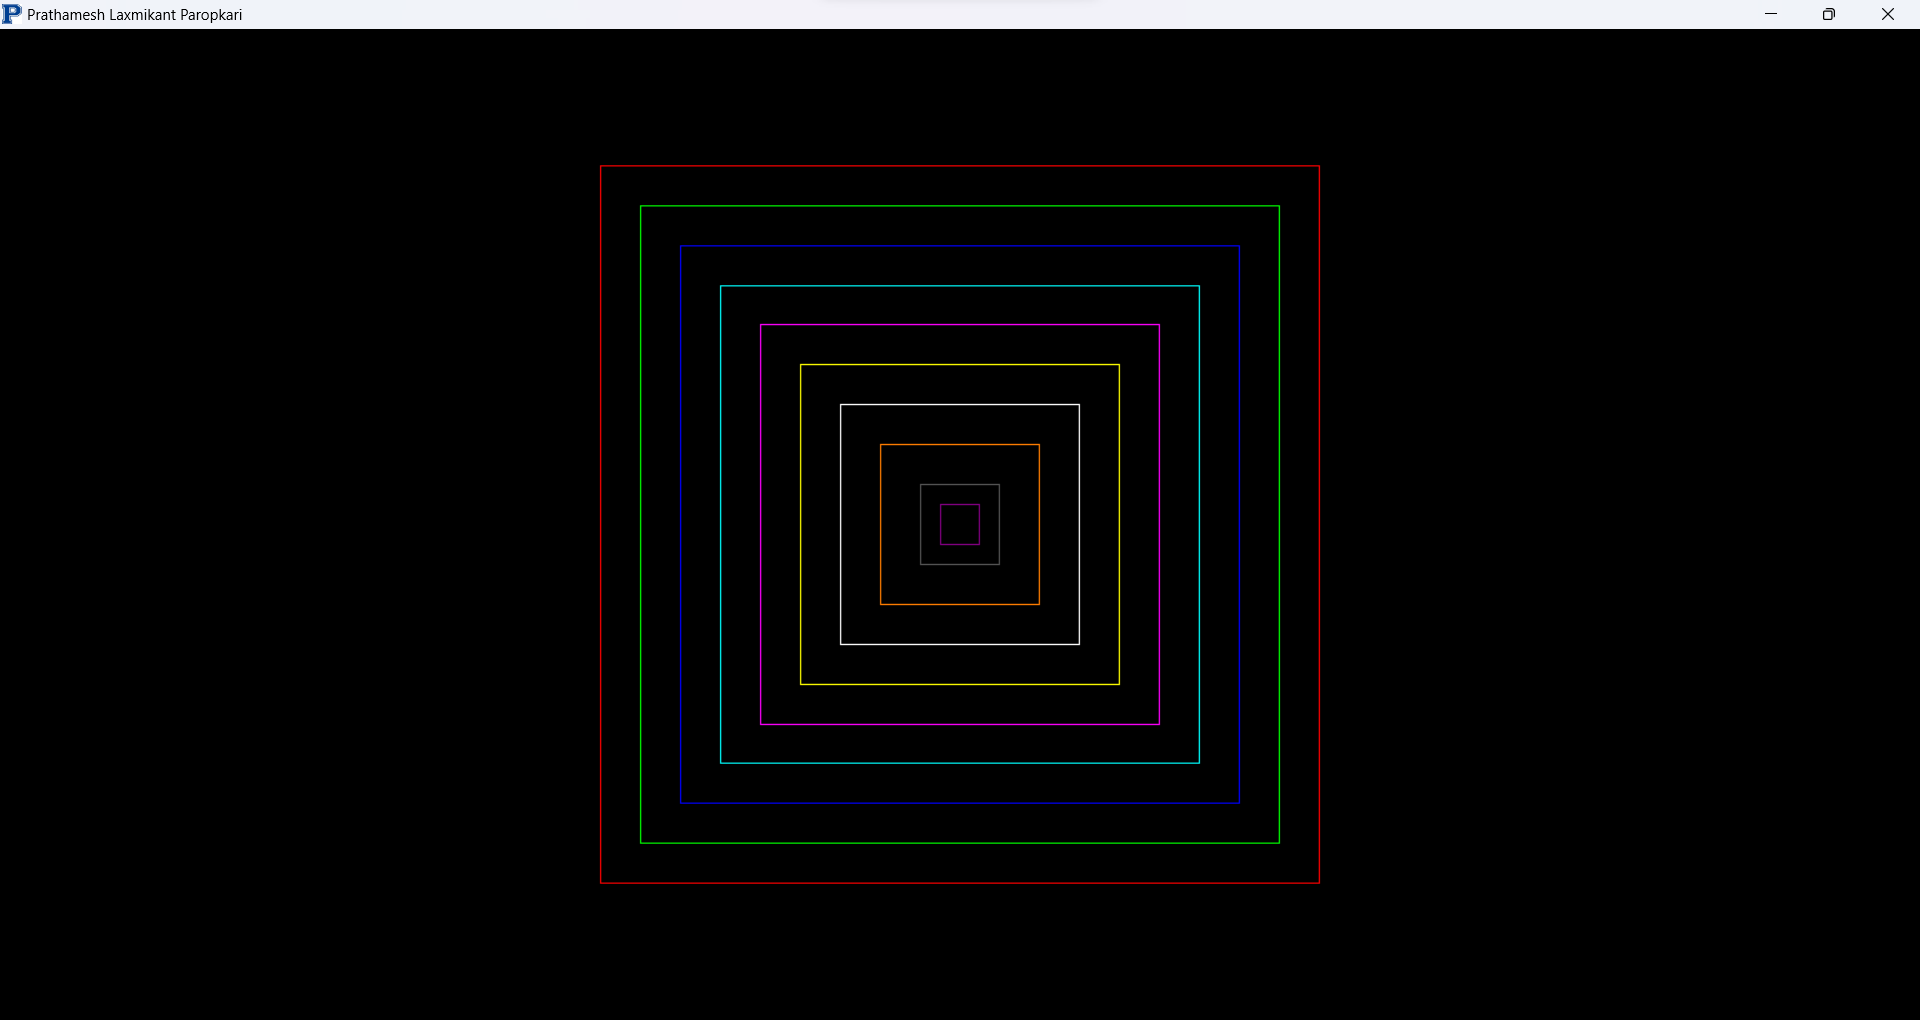
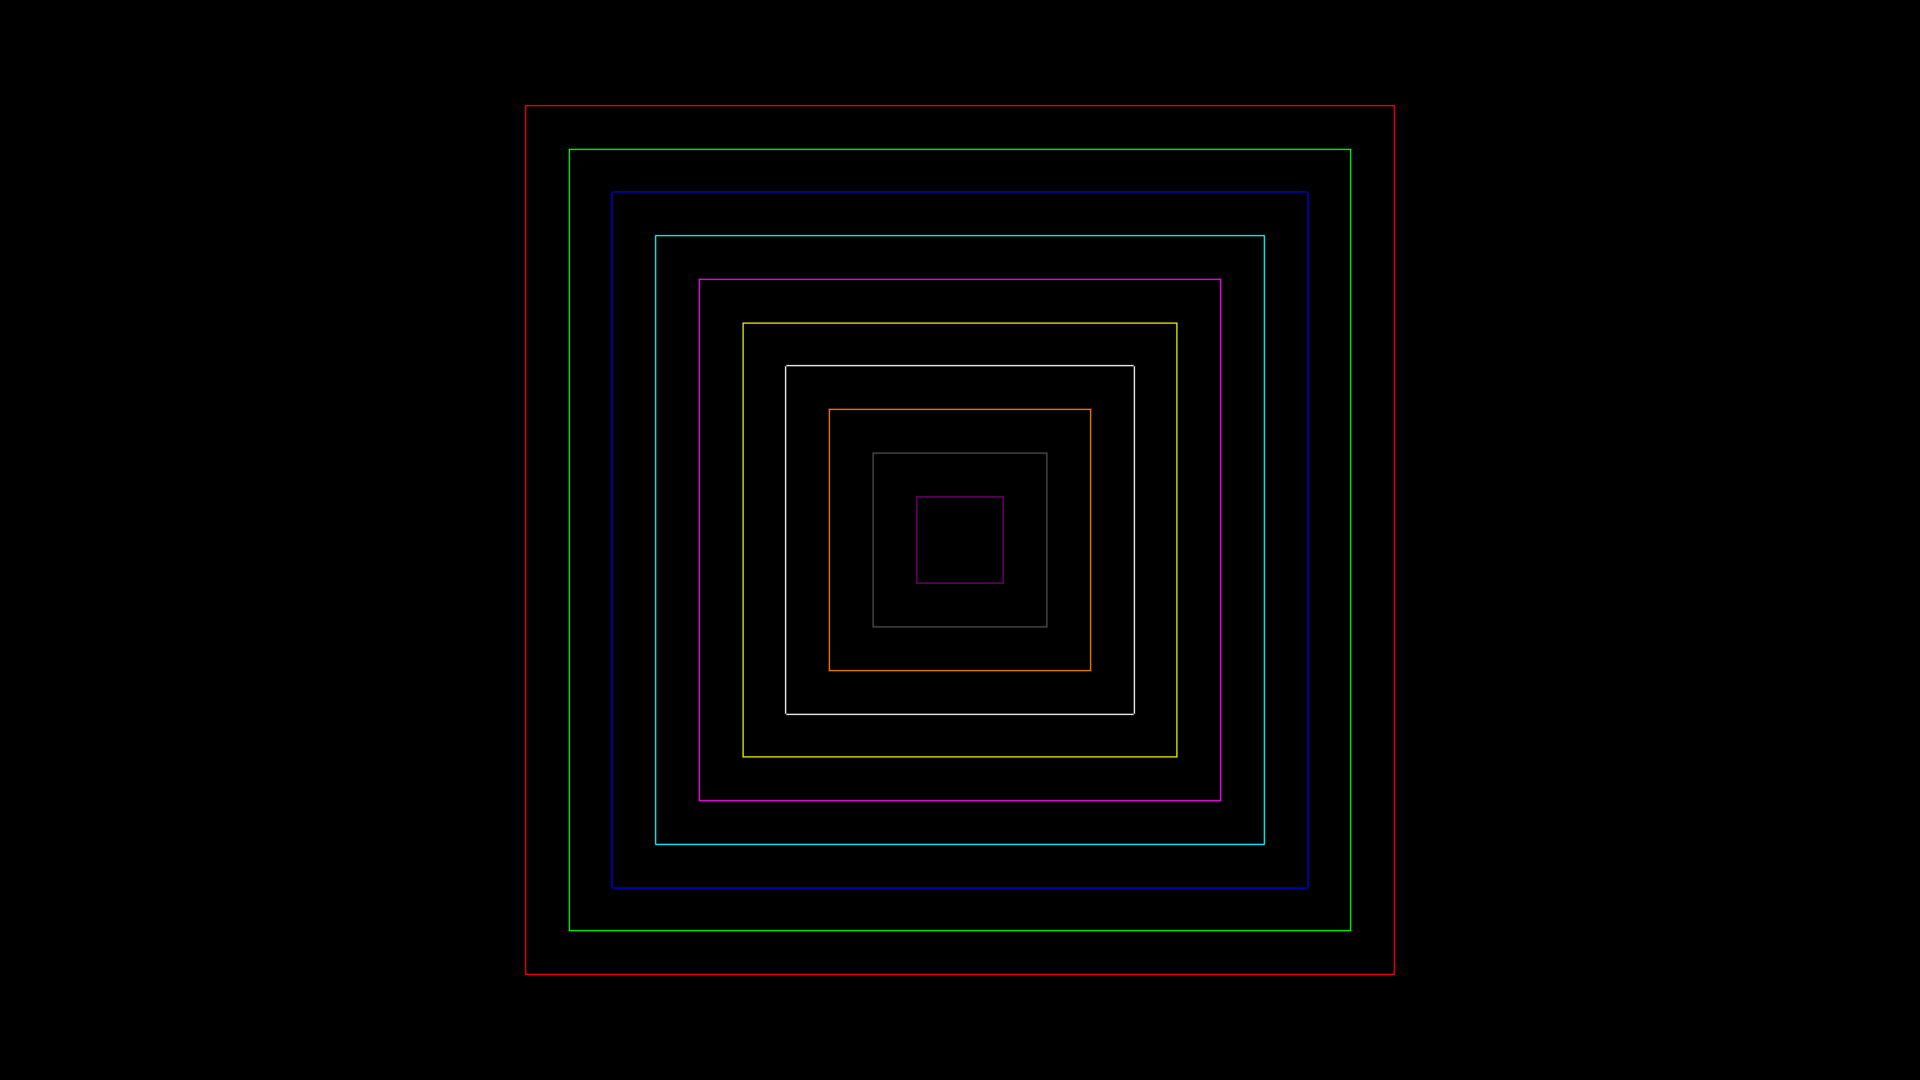
Corrected Concentric Squares Assignment

Changed region(s): [[0.3125, 0.152, 0.6875, 0.8814], [0.0, 0.0, 1.0, 0.0304]]

diff --git a/01_OpenGL/01_FFP/01_Windows/23_Basic_Assignments/13_Concentric_Squares/OGL.c b/01_OpenGL/01_FFP/01_Windows/23_Basic_Assignments/13_Concentric_Squares/OGL.c
@@ -437,6 +437,27 @@ void resize(int width, int height)
 
 void display(void)
 {
+
+	struct colour
+	{
+		GLfloat Red;
+		GLfloat Green;
+		GLfloat Blue;
+	};
+	struct colour c[10] = {
+						  {1.0f,0.0f,0.0f},
+						  {0.0f,1.0f,0.0f},
+						  {0.0f,0.0f,1.0f},
+						  {0.0f, 1.0f, 1.0f},
+						  {1.0f, 0.0f, 1.0f},
+						  {1.0f, 1.0f, 0.0f},
+						  {1.0f, 1.0f, 1.0f},
+						  {1.0f, 0.49f, 0.0f},
+						  {(83.0f / 255.0f), (83.0f / 255.0f), (83.0f / 255.0f)},
+						  {(128.0f / 255.0f), (0.0f / 255.0f), (128.0f / 255.0f)}
+	};
+
+
 	//code
 	glClear(GL_COLOR_BUFFER_BIT);
 	glMatrixMode(GL_MODELVIEW);
@@ -444,184 +465,270 @@ void display(void)
 	
 	glTranslatef(0.0f, 0.0f, -3.0f);
 
-	glBegin(GL_LINE_STRIP);               //first quad (Outermost)
+	GLfloat TC = 1.0f;
+	for (int i = 1; i <= 10; i++)
+	{
+		if (i == 1)
+		{
+			glColor3f(c[0].Red, c[0].Green, c[0].Blue);
+		}
 
-	glColor3f(1.0f, 0.0f, 0.0f);
-	glVertex3f(0.9f, 0.9f, 0.0f);
+		else if (i == 2)
+		{
+			glColor3f(c[1].Red, c[1].Green, c[1].Blue);
+		}
 
-	
-	glVertex3f(-0.9f, 0.9f, 0.0f);
+		else if (i == 3)
+		{
+			glColor3f(c[2].Red, c[2].Green, c[2].Blue);
+		}
 
-	
-	glVertex3f(-0.9f, -0.9f, 0.0f);
+		else if (i == 4)
+		{
+			glColor3f(c[3].Red, c[3].Green, c[3].Blue);
+		}
 
-	glVertex3f(0.9f, -0.9f, 0.0f);
+		else if (i == 5)
+		{
+			glColor3f(c[4].Red, c[4].Green, c[4].Blue);
+		}
 
-	glVertex3f(0.9f, 0.9f, 0.0f);
+		else if (i == 6)
+		{
+			glColor3f(c[5].Red, c[5].Green, c[5].Blue);
+		}
 
-	glEnd();
+		else if (i == 7)
+		{
+			glColor3f(c[6].Red, c[6].Green, c[6].Blue);
+		}
 
-	glBegin(GL_LINE_STRIP);                  //Second quad(Second largest)
+		else if (i == 8)
+		{
+			glColor3f(c[7].Red, c[7].Green, c[7].Blue);
+		}
 
-	glColor3f(0.0f, 1.0f, 0.0f);
-	glVertex3f(0.8f, 0.8f, 0.0f);
+		else if (i == 9)
+		{
+			glColor3f(c[8].Red, c[8].Green, c[8].Blue);
+		}
 
+		else if (i == 10)
+		{
+			glColor3f(c[9].Red, c[9].Green, c[9].Blue);
+		}
 
-	glVertex3f(-0.8f, 0.8f, 0.0f);
+		else
+		{
+			glColor3f(c[4].Red, c[4].Green, c[4].Blue);
+		}
 
 
-	glVertex3f(-0.8f, -0.8f, 0.0f);
+		glBegin(GL_LINE_STRIP);
+		glVertex3f(TC, TC, 0.0f);
+		glVertex3f(-TC, TC, 0.0f);
+		glVertex3f(-TC, -TC, 0.0f);
+		glVertex3f(TC, -TC, 0.0f);
+		glVertex3f(TC, TC, 0.0f);
+		glEnd();
+		TC -= 0.1;
+	}
 
-	glVertex3f(0.8f, -0.8f, 0.0f);
+	//glBegin(GL_LINE_STRIP);               //first quad (Outermost)
 
-	glVertex3f(0.8f, 0.8f, 0.0f);
+	//glColor3f(1.0f, 0.0f, 0.0f);
+	//glVertex3f(1.0f, 1.0f, 0.0f);
 
-	glEnd();
 
-	glBegin(GL_LINE_STRIP);                  //Third quad(Third largest)
+	//glVertex3f(-1.0f, 1.0f, 0.0f);
 
-	glColor3f(0.0f, 0.0f, 1.0f);
-	glVertex3f(0.7f, 0.7f, 0.0f);
 
+	//glVertex3f(-1.0f, -1.0f, 0.0f);
 
-	glVertex3f(-0.7f, 0.7f, 0.0f);
+	//glVertex3f(1.0f, -1.0f, 0.0f);
 
+	//glVertex3f(1.0f, 1.0f, 0.0f);
 
-	glVertex3f(-0.7f, -0.7f, 0.0f);
+	//glEnd();
 
-	glVertex3f(0.7f, -0.7f, 0.0f);
+	//glBegin(GL_LINE_STRIP);               //second quad (Outermost)
 
-	glVertex3f(0.7f, 0.7f, 0.0f);
+	//glColor3f(0.0f, 1.0f, 0.0f);
+	//glVertex3f(0.9f, 0.9f, 0.0f);
 
-	glEnd();
+	//
+	//glVertex3f(-0.9f, 0.9f, 0.0f);
 
-	glBegin(GL_LINE_STRIP);                  //fourth quad
+	//
+	//glVertex3f(-0.9f, -0.9f, 0.0f);
 
-	glColor3f(0.0f, 1.0f, 1.0f);
-	glVertex3f(0.6f, 0.6f, 0.0f);
+	//glVertex3f(0.9f, -0.9f, 0.0f);
 
+	//glVertex3f(0.9f, 0.9f, 0.0f);
 
-	glVertex3f(-0.6f, 0.6f, 0.0f);
+	//glEnd();
 
+	//glBegin(GL_LINE_STRIP);                  //third quad(Second largest)
 
-	glVertex3f(-0.6f, -0.6f, 0.0f);
+	//glColor3f(0.0f, 0.0f, 1.0f);
+	//glVertex3f(0.8f, 0.8f, 0.0f);
 
-	glVertex3f(0.6f, -0.6f, 0.0f);
 
-	glVertex3f(0.6f, 0.6f, 0.0f);
+	//glVertex3f(-0.8f, 0.8f, 0.0f);
 
-	glEnd();
 
-	glBegin(GL_LINE_STRIP);                  //fifth quad
+	//glVertex3f(-0.8f, -0.8f, 0.0f);
 
-	glColor3f(1.0f, 0.0f, 1.0f);
+	//glVertex3f(0.8f, -0.8f, 0.0f);
 
-	glVertex3f(0.5f, 0.5f, 0.0f);
+	//glVertex3f(0.8f, 0.8f, 0.0f);
 
+	//glEnd();
 
-	glVertex3f(-0.5f, 0.5f, 0.0f);
+	//glBegin(GL_LINE_STRIP);                  //fourth quad(Third largest)
 
+	//glColor3f(0.0f, 1.0f, 1.0f);
+	//glVertex3f(0.7f, 0.7f, 0.0f);
 
-	glVertex3f(-0.5f, -0.5f, 0.0f);
 
-	glVertex3f(0.5f, -0.5f, 0.0f);
+	//glVertex3f(-0.7f, 0.7f, 0.0f);
 
-	glVertex3f(0.5f, 0.5f, 0.0f);
 
-	glEnd();
+	//glVertex3f(-0.7f, -0.7f, 0.0f);
 
-	glBegin(GL_LINE_STRIP);                  //sixth quad
+	//glVertex3f(0.7f, -0.7f, 0.0f);
 
-	glColor3f(1.0f, 1.0f, 0.0f);
+	//glVertex3f(0.7f, 0.7f, 0.0f);
 
-	glVertex3f(0.4f, 0.4f, 0.0f);
+	//glEnd();
 
+	//glBegin(GL_LINE_STRIP);                  //fifth quad
 
-	glVertex3f(-0.4f, 0.4f, 0.0f);
+	//glColor3f(1.0f, 0.0f, 1.0f);
+	//glVertex3f(0.6f, 0.6f, 0.0f);
 
 
-	glVertex3f(-0.4f, -0.4f, 0.0f);
+	//glVertex3f(-0.6f, 0.6f, 0.0f);
 
-	glVertex3f(0.4f, -0.4f, 0.0f);
 
-	glVertex3f(0.4f, 0.4f, 0.0f);
+	//glVertex3f(-0.6f, -0.6f, 0.0f);
 
-	glEnd();
+	//glVertex3f(0.6f, -0.6f, 0.0f);
 
-	glBegin(GL_LINE_STRIP);                  //seventh quad
+	//glVertex3f(0.6f, 0.6f, 0.0f);
 
-	glColor3f(1.0f, 1.0f, 1.0f);
+	//glEnd();
 
-	glVertex3f(0.3f, 0.3f, 0.0f);
+	//glBegin(GL_LINE_STRIP);                  //sixth quad
 
+	//glColor3f(1.0f, 1.0f, 0.0f);
 
-	glVertex3f(-0.3f, 0.3f, 0.0f);
+	//glVertex3f(0.5f, 0.5f, 0.0f);
 
 
-	glVertex3f(-0.3f, -0.3f, 0.0f);
+	//glVertex3f(-0.5f, 0.5f, 0.0f);
 
-	glVertex3f(0.3f, -0.3f, 0.0f);
 
-	glVertex3f(0.3f, 0.3f, 0.0f);
+	//glVertex3f(-0.5f, -0.5f, 0.0f);
 
-	glEnd();
+	//glVertex3f(0.5f, -0.5f, 0.0f);
 
-	glBegin(GL_LINE_STRIP);                  //eighth quad
+	//glVertex3f(0.5f, 0.5f, 0.0f);
 
-	glColor3f(1.0f, 0.49f, 0.0f);
+	//glEnd();
 
+	//glBegin(GL_LINE_STRIP);                  //seventh quad
 
-	glVertex3f(0.2f, 0.2f, 0.0f);
+	//glColor3f(1.0f, 1.0f, 1.0f);
 
+	//glVertex3f(0.4f, 0.4f, 0.0f);
 
-	glVertex3f(-0.2f, 0.2f, 0.0f);
 
+	//glVertex3f(-0.4f, 0.4f, 0.0f);
 
-	glVertex3f(-0.2f, -0.2f, 0.0f);
 
-	glVertex3f(0.2f, -0.2f, 0.0f);
+	//glVertex3f(-0.4f, -0.4f, 0.0f);
 
-	glVertex3f(0.2f, 0.2f, 0.0f);
+	//glVertex3f(0.4f, -0.4f, 0.0f);
 
-	glEnd();
+	//glVertex3f(0.4f, 0.4f, 0.0f);
 
-	glBegin(GL_LINE_STRIP);                  //ninth quad
+	//glEnd();
 
-	glColor3f((83.0f / 255.0f), (83.0f / 255.0f), (83.0f / 255.0f));
+	//glBegin(GL_LINE_STRIP);                  //eighth quad
 
+	//glColor3f(1.0f, 0.49f, 0.0f);
 
-	glVertex3f(0.1f, 0.1f, 0.0f);
+	//glVertex3f(0.3f, 0.3f, 0.0f);
 
 
-	glVertex3f(-0.1f, 0.1f, 0.0f);
+	//glVertex3f(-0.3f, 0.3f, 0.0f);
 
 
-	glVertex3f(-0.1f, -0.1f, 0.0f);
+	//glVertex3f(-0.3f, -0.3f, 0.0f);
 
-	glVertex3f(0.1f, -0.1f, 0.0f);
+	//glVertex3f(0.3f, -0.3f, 0.0f);
 
-	glVertex3f(0.1f, 0.1f, 0.0f);
+	//glVertex3f(0.3f, 0.3f, 0.0f);
 
-	glEnd();
+	//glEnd();
 
-	glBegin(GL_LINE_STRIP);                  //Tenth quad
+	//glBegin(GL_LINE_STRIP);                  //ninth quad
 
-	glColor3f((128.0f / 255.0f), (0.0f / 255.0f), (128.0f / 255.0f));
+	//glColor3f((83.0f / 255.0f), (83.0f / 255.0f), (83.0f / 255.0f));
 
 
-	glVertex3f(0.05f, 0.05f, 0.0f);
+	//glVertex3f(0.2f, 0.2f, 0.0f);
 
 
-	glVertex3f(-0.05f, 0.05f, 0.0f);
+	//glVertex3f(-0.2f, 0.2f, 0.0f);
 
 
-	glVertex3f(-0.05f, -0.05f, 0.0f);
+	//glVertex3f(-0.2f, -0.2f, 0.0f);
 
-	glVertex3f(0.05f, -0.05f, 0.0f);
+	//glVertex3f(0.2f, -0.2f, 0.0f);
 
-	glVertex3f(0.05f, 0.05f, 0.0f);
+	//glVertex3f(0.2f, 0.2f, 0.0f);
 
-	glEnd();
+	//glEnd();
+
+	//glBegin(GL_LINE_STRIP);                  //tenth quad
+
+	//glColor3f((128.0f / 255.0f), (0.0f / 255.0f), (128.0f / 255.0f));
+
+
+	//glVertex3f(0.1f, 0.1f, 0.0f);
+
+
+	//glVertex3f(-0.1f, 0.1f, 0.0f);
+
+
+	//glVertex3f(-0.1f, -0.1f, 0.0f);
+
+	//glVertex3f(0.1f, -0.1f, 0.0f);
+
+	//glVertex3f(0.1f, 0.1f, 0.0f);
+
+	//glEnd();
+
+	////glBegin(GL_LINE_STRIP);                  //Tenth quad
+
+	////glColor3f((128.0f / 255.0f), (0.0f / 255.0f), (128.0f / 255.0f));
+
+
+	////glVertex3f(0.05f, 0.05f, 0.0f);
+
+
+	////glVertex3f(-0.05f, 0.05f, 0.0f);
+
+
+	////glVertex3f(-0.05f, -0.05f, 0.0f);
+
+	////glVertex3f(0.05f, -0.05f, 0.0f);
+
+	////glVertex3f(0.05f, 0.05f, 0.0f);
+
+	////glEnd();
 
 
 
